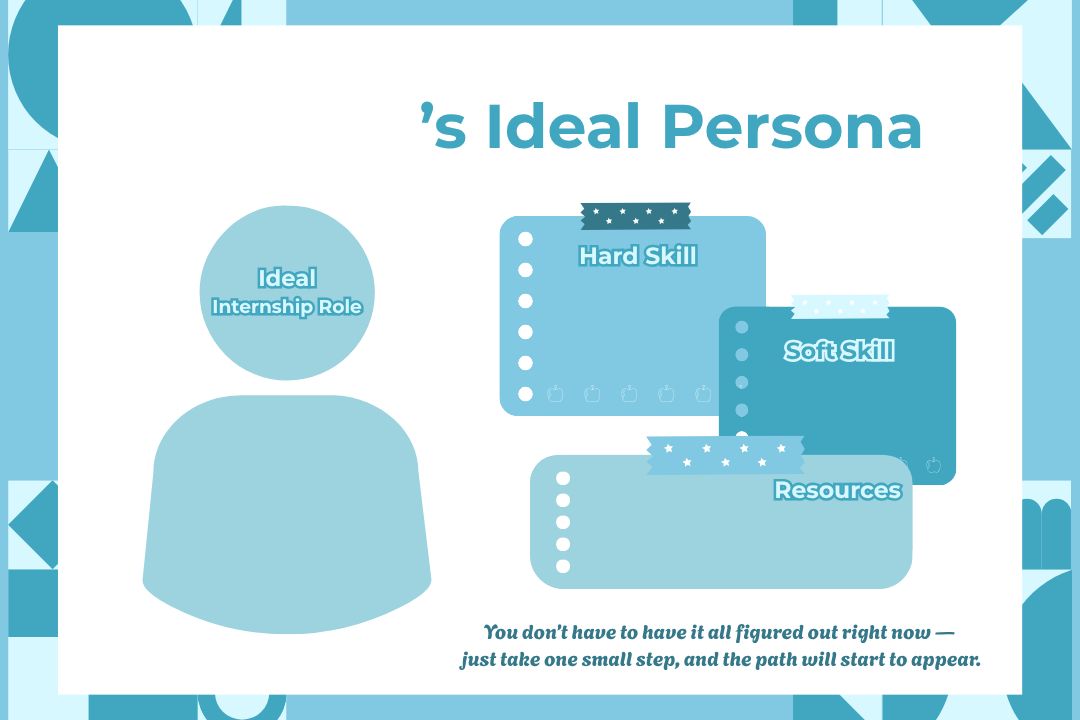
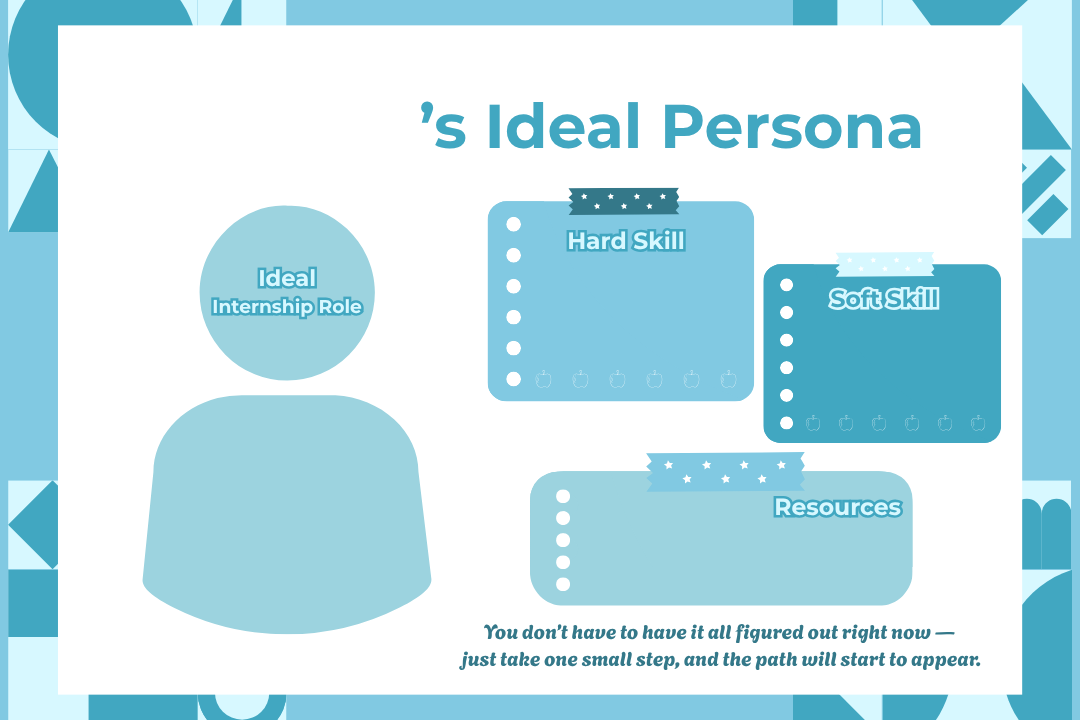
0.02.5.5

Changed region(s): [[0.4278, 0.2444, 0.9472, 0.8556]]

diff --git a/coding/persona_tools.py b/coding/persona_tools.py
@@ -67,7 +67,7 @@ def get_clean_titles(job_titles: list[str]) -> str:
 
     llm_config = LLMConfig(
         api_type="google",
-        model="gemini-1.5-flash",
+        model="gemini-2.0-flash-lite",
         api_key=GEMINI_API_KEY,
     )
 
@@ -147,12 +147,210 @@ def persona_title(img, raw_titles_text, width=30):
     return img
 
 
+from typing import List
+import pandas as pd
+from autogen import ConversableAgent, UserProxyAgent, LLMConfig
+import os
 
-# 範例用法
-if __name__ == "__main__":
-    df = pd.read_csv("pages/saved_jobs.csv")
-    job_titles = df["Job Title"].dropna().tolist()
-    cleaned_raw = get_clean_titles(job_titles)
-    print(format_titles_centered(cleaned_raw))
+def extract_hard_skills_from_text(keywords: str, description: str) -> str:
+    if not GEMINI_API_KEY:
+        raise ValueError("GEMINI_API_KEY is missing")
+
+    llm_config = LLMConfig(
+        api_type="google",
+        model="gemini-2.0-flash-lite",
+        api_key=GEMINI_API_KEY,
+    )
+
+    prompt_template = """
+你是一位協助學生解析實習職缺的 AI 助理，請根據輸入的職缺資訊，幫助學生萃取出「重要的硬技能（hard skills）」，這些技能應該是學生應該學會或具備的，通常是工具、語言、技術、平台或數據分析能力，例如：Python、Excel、SQL、Tableau、Canva、A/B testing 等。
+
+請依據以下規則處理：
+1. 統整 job keywords 與 job description 中出現的技能
+2. 僅保留硬技能，排除軟技能（如溝通能力、團隊合作）
+3. 以英文逗號分隔，例如：Python, Excel, SQL, Tableau
+4. 移除重複項目，並盡可能標準化技能名稱（例如 Excel 表格處理 ➝ Excel）
+5. 如果是Microsoft Office系列，Word, PowerPoint, Excel都有的話，請幫我以Microsoft Office表示，如果Word, PowerPoint, Excel沒有同時出現還次可以顯示單一項目
+6. 回傳最多四個你覺得最相關的
+7. 全部用英文回應
+8. 最多兩個英文字，Social Media Platform或Social Media Marketing都保留Social Media就好
+
+以下是職缺資訊：
+---
+Job Keywords:
+{keywords}
+
+Job Description:
+{description}
+---
+請回傳這些職缺所需的硬技能清單（以英文逗號分隔）：
+"""
+
+    final_prompt = prompt_template.format(keywords=keywords, description=description)
+
+    gemini_agent = ConversableAgent(
+        name="Gemini",
+        llm_config=llm_config,
+        system_message="你是負責萃取實習硬技能的助手"
+    )
+
+    user = UserProxyAgent(
+        name="user",
+        human_input_mode="NEVER",
+        max_consecutive_auto_reply=0
+    )
+
+    chat_result = user.initiate_chat(
+        recipient=gemini_agent,
+        message=final_prompt
+    )
+
+    for msg in chat_result.chat_history:
+        if msg["role"] == "user":
+            return msg["content"]
+
+    return ""
+
+def extract_all_hard_skills_as_text(csv_path: str) -> str:
+    df = pd.read_csv(csv_path)
+    all_keywords = " ".join(df["Job Keywords"].dropna().astype(str).tolist())
+    all_descriptions = " ".join(df["Job Description"].dropna().astype(str).tolist())
+    return extract_hard_skills_from_text(all_keywords, all_descriptions)
+
+def persona_title(img, raw_titles_text, width=30):
+
+    draw = ImageDraw.Draw(img)
+
+    # 字型設定（可和名字不同大小）
+    font_path = "pages/Montserrat-Bold.ttf"
+    font_size = 23
+    font = ImageFont.truetype(font_path, font_size)
+
+    # 處理文字：中間對齊 + 拆行
+    titles = [t.strip() for t in raw_titles_text.split(",") if t.strip()]
+    centered_titles = [t.center(width) for t in titles]
+
+    # 起始位置（你可以自己微調）
+    start_x = 130
+    start_y = 450
+    line_spacing = 35
+
+    # 每行畫上去
+    for i, line in enumerate(centered_titles):
+        y = start_y + i * line_spacing
+        draw.text((start_x, y), line, font=font, fill="#2c606d")
+
+    return img
+
+def persona_hardskill(img: Image.Image, hard_skills: str) -> Image.Image:
+    draw = ImageDraw.Draw(img)
+
+    # 字型設定（可和名字不同大小）
+    font_path = "pages/Montserrat-Bold.ttf"
+    font_size = 20
+    font = ImageFont.truetype(font_path, font_size)
+
+    skills_list = [skill.strip() for skill in hard_skills.split(",") if skill.strip()]
+    bullet = u"\u2022"  # 黑圓點
+
+     # 起始位置（你可以自己微調）
+    start_x = 535
+    start_y = 260
+    line_spacing = 30
+
+#    for i in skills_list:
+    for i, skill in enumerate(skills_list):
+        y = start_y + i * line_spacing
+        draw.text((start_x, y), f"{bullet} {skill}", fill="#2c606d", font=font)
+
+    return img
+
+
+def extract_soft_skills_from_text(keywords: str, description: str) -> str:
+    if not GEMINI_API_KEY:
+        raise ValueError("GEMINI_API_KEY is missing")
+
+    llm_config = LLMConfig(
+        api_type="google",
+        model="gemini-2.0-flash-lite",
+        api_key=GEMINI_API_KEY,
+    )
+
+    prompt_template = """
+你是一位協助學生解析實習職缺的 AI 助理，請根據輸入的職缺資訊，幫助學生萃取出「重要的軟技能（soft skills）」，這些技能通常是個人特質、工作態度、人際互動與職場通用能力，例如：Communication, Teamwork, Problem Solving, Adaptability, Time Management 等。
+請依據以下規則處理：
+1. 統整 job keywords 與 job description 中出現的軟技能
+2. 僅保留軟技能，排除工具、程式語言、技術平台等硬技能（如：Python、Excel、SQL 不要包含）
+3. 以英文逗號分隔，例如：Communication, Teamwork, Problem Solving
+4. 移除重複項目，並儘可能標準化技能名稱（例如：Good communication skills ➝ Communication）
+5. 如果有多種描述方式，請保留最常見、最代表性的表述方式（例如：Team collaboration、Team player ➝ Teamwork）
+6. 保留你覺得最相關的四個
+7. 全部用英文回應
+
+以下是職缺資訊：
+---
+Job Keywords:
+{keywords}
+
+Job Description:
+{description}
+---
+請回傳這些職缺所需的軟技能清單（以英文逗號分隔）：
+"""
+
+    final_prompt = prompt_template.format(keywords=keywords, description=description)
+
+    gemini_agent = ConversableAgent(
+        name="Gemini",
+        llm_config=llm_config,
+        system_message="你是負責萃取實習硬技能的助手"
+    )
+
+    user = UserProxyAgent(
+        name="user",
+        human_input_mode="NEVER",
+        max_consecutive_auto_reply=0
+    )
+
+    chat_result = user.initiate_chat(
+        recipient=gemini_agent,
+        message=final_prompt
+    )
+
+    for msg in chat_result.chat_history:
+        if msg["role"] == "user":
+            return msg["content"]
+
+    return ""
+
+def extract_all_soft_skills_as_text(csv_path: str) -> str:
+    df = pd.read_csv(csv_path)
+    all_keywords = " ".join(df["Job Keywords"].dropna().astype(str).tolist())
+    all_descriptions = " ".join(df["Job Description"].dropna().astype(str).tolist())
+    return extract_soft_skills_from_text(all_keywords, all_descriptions)
+
+
+def persona_softskill(img: Image.Image, soft_skills: str) -> Image.Image:
+    draw = ImageDraw.Draw(img)
+
+    # 字型設定（可和名字不同大小）
+    font_path = "pages/Montserrat-Bold.ttf"
+    font_size = 20
+    font = ImageFont.truetype(font_path, font_size)
+
+    skills_list = [skill.strip() for skill in soft_skills.split(",") if skill.strip()]
+    bullet = u"\u2022"  # 黑圓點
+
+     # 起始位置（你可以自己微調）
+    start_x = 795
+    start_y = 315
+    line_spacing = 28
+
+#    for i in skills_list:
+    for i, skill in enumerate(skills_list):
+        y = start_y + i * line_spacing
+        draw.text((start_x, y), f"{bullet} {skill}", fill="#d7f8ff", font=font)
+
+    return img
 
 

diff --git a/pages/test.py b/pages/test.py
@@ -4,6 +4,7 @@ from coding.utils import paging
 from io import BytesIO
 import os
 from coding.persona_tools import persona_name, persona_title, get_clean_titles, format_titles_centered
+from coding.persona_tools import extract_all_hard_skills_as_text, persona_hardskill, persona_softskill, extract_all_soft_skills_as_text
 import pandas as pd
 
 
@@ -14,7 +15,7 @@ user_image = "https://www.w3schools.com/howto/img_avatar.png"
 
 
 def main():
-    st.title("🧑💼 Test")        
+    st.title("🧑💼 Ideal Persona")        
     
     with st.sidebar:
         paging()
@@ -41,6 +42,11 @@ def main():
 
     # 疊加職稱
     img = persona_title(img, cleaned_raw)
+
+    hard_skills = extract_all_hard_skills_as_text("pages/saved_jobs.csv")
+    persona_hardskill(img, hard_skills)
+    soft_skills = extract_all_soft_skills_as_text("pages/saved_jobs.csv")
+    persona_softskill(img, soft_skills)
 
     # 圖片轉 BytesIO 用於顯示與下載
     img_bytes = BytesIO()

diff --git a/coding/utils.py b/coding/utils.py
@@ -9,7 +9,7 @@ def paging():
     st.page_link("pages/two_agents.py", label="Two Agents' Talk", icon="💭")
     st.page_link("pages/one_agent.py", label="One Agent' Talk", icon="🧑🏻🏫")
     st.page_link("pages/job_cleaner.py", label="Job Cleaner", icon= "🧹")
-    st.page_link("pages/test.py", label= "test")
+    st.page_link("pages/test.py", label= "Ideal Persona", icon= "🧠" )
 
 def display_session_msg(container_obj, user_image: Optional[str] = None):
     # Initialize messages list if not present
